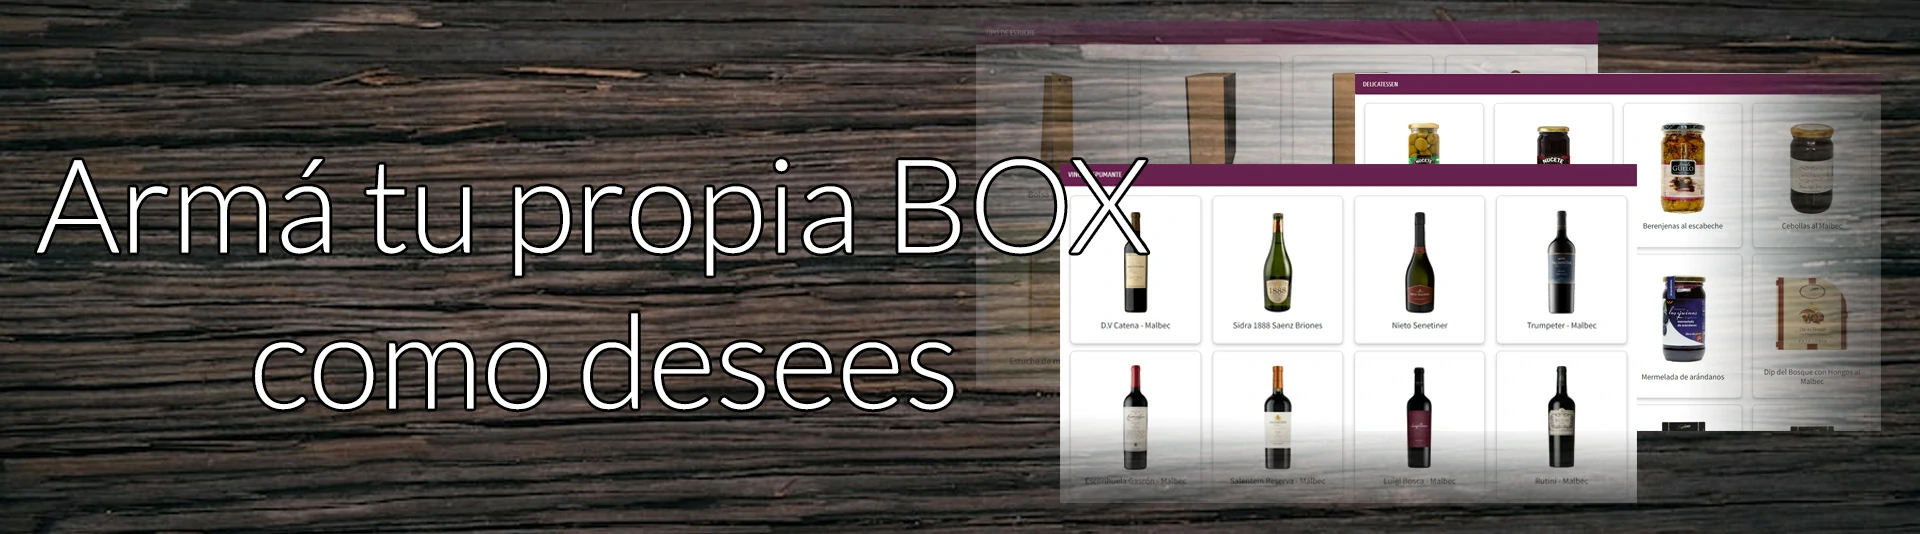
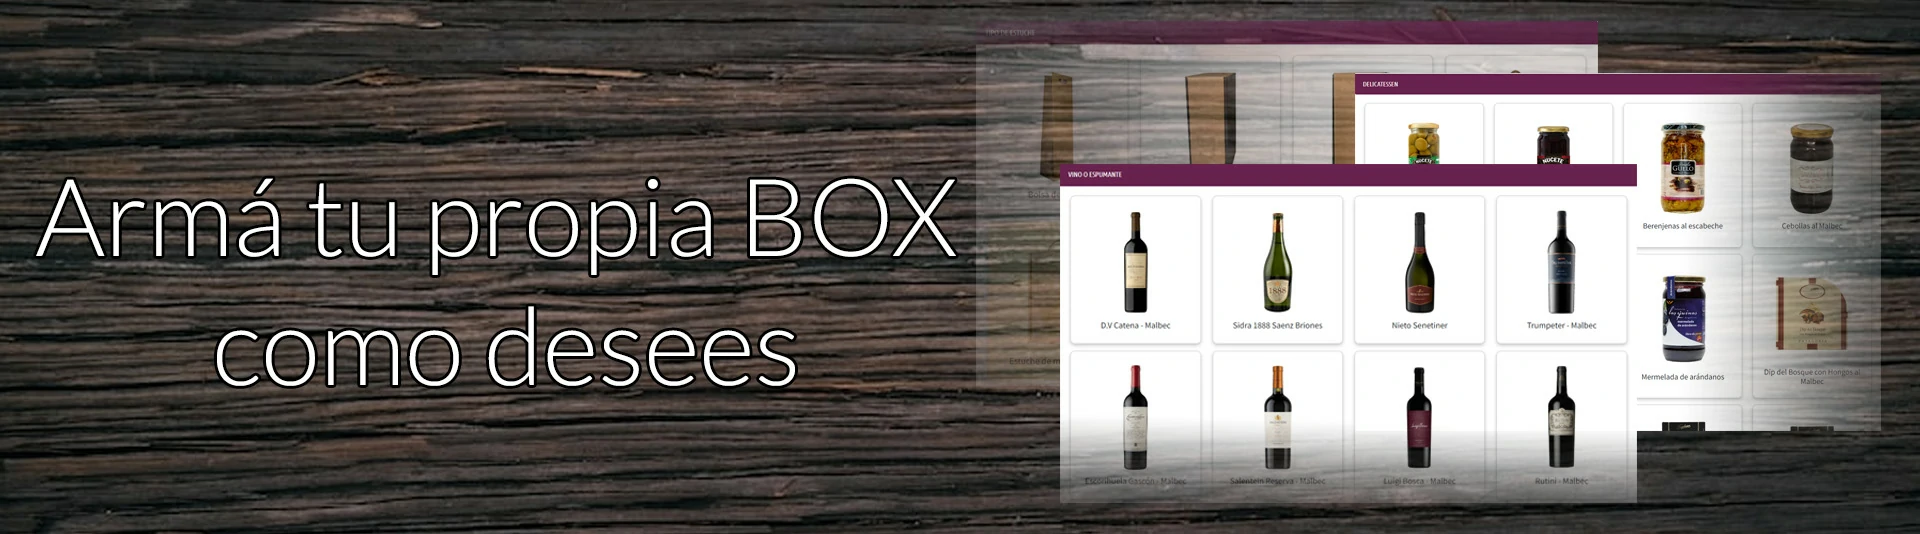
Fix a height de ubicacion

Changed region(s): [[0.0, 0.2697, 0.625, 0.5094], [0.0938, 0.5693, 0.5, 0.779]]

diff --git a/scss/_classes&ids.scss b/scss/_classes&ids.scss
@@ -223,9 +223,8 @@
     @include flex(row, center, center, nowrap);
     background: url("/img/test.webp");
     width: 100%;
-    height: 30vh;
+    min-height: 20vh;
     padding: 15px;
-
     margin: 5px 0px;
 }
 

diff --git a/css/main.css b/css/main.css
@@ -330,7 +330,7 @@ h2, h4, h5, li {
   flex-wrap: nowrap;
   background: url("/img/test.webp");
   width: 100%;
-  height: 30vh;
+  min-height: 20vh;
   padding: 15px;
   margin: 5px 0px;
 }
